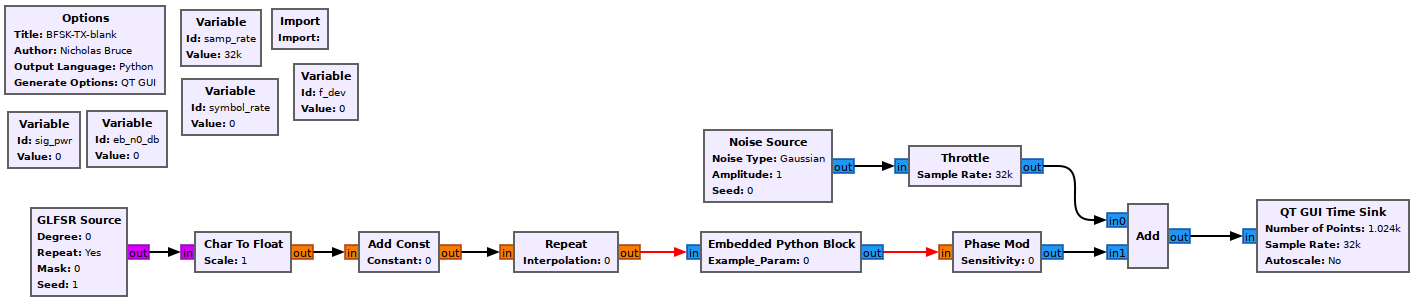
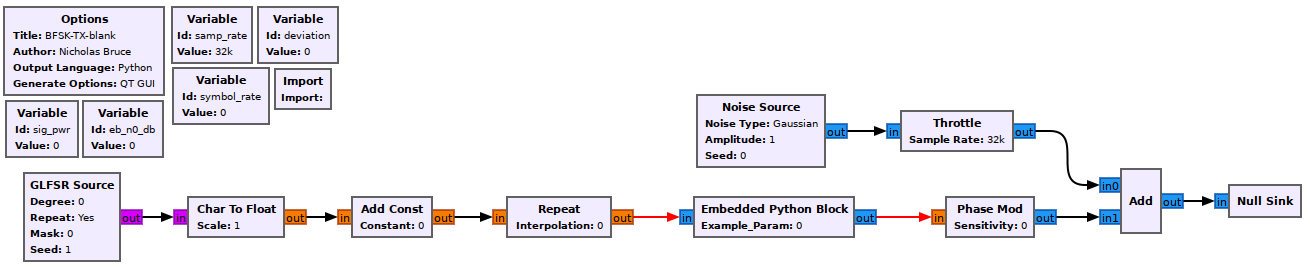
Working through fsk mod

diff --git a/_ece450/lab3/fsk-modulator.md b/_ece450/lab3/fsk-modulator.md
@@ -5,7 +5,7 @@ title: Part 2 - FSK Modulator
 permalink: /ece450/lab3/fsk-modulator
 course: ece450
 prev: /ece450/lab3/theory
-next: /ece450/lab3/non-coherent-fsk
+next: /ece450/lab3/noncoherent-fsk
 ---
 
 ## Objectives
@@ -128,92 +128,25 @@ Save your changes and exit back to the flowgraph.
 
 ### Phase Mod
 
-It is helpful to see the [Phase Mod documentation](https://wiki.gnuradio.org/index.php/Phase_Mod). This block has one parameter, *Sensitivity* and the output is 
+It is helpful to see the [Phase Mod documentation](https://wiki.gnuradio.org/index.php/Phase_Mod). This block has one parameter, *Sensitivity* and the output is $$e^{j*sensitivity*input}$$. Recall from the theory section that
+
+$$
+\tilde{s}(t) = e^{\frac{j2\pi f_{dev}}{f_s} \int^t_0 m(\alpha)d\alpha}.
+$$
+
+Set the *Sensitivity* of the block to `2*math.pi*deviation/samp_rate` so that the output of the block is $$\tilde{s}(t)$$.
 
 ### Noise Source
 
-For now set the *Amplitude* to 0.
-
-### Virtual Sink & Virtual source
-
-These blocks can be considered as connected by an "invisible" line on the flowgraph. They can be used for more complex tasks, but here they just keep the flowgraph from being criss-crossed with lines. They are also used to simulate a "transmitter" and "receiver". In this case the *Virtual Sink* transmits the noisy baseband waveform while the *Virtual Source* receives it.
-
-Ensure that the *Stream ID* matches between the two.
-
-### Decimating FIR Filter
-
-Set the decimation parameter appropriately (think back to the interpolation done in the LPF), remembering to reference the symbol and sample rate variables. The block fails to compile without a taps argument so set *Taps* to 1 (meaning there is 1 tap with a value of 1).
-
-{% include alert.html title="Note" content="Some systems seem to throw a weird error unless the 1 is enclosed in square brackets. If you get this error try setting the taps to `[1]`."%}
-
-### Binary Slicer
-
-This block outputs a 0 for every negative input and a 1 for every positive output.
-
-### Pack K Bits
-
-Set *K* to 8. This is the packet byte size that the later *BER* block requires.
-
-### BER
-
-This computes the error between the two inputs. It outputs to log of the BER, so if it outputs a value of -2, the BER is $$10^{-2}=0.01$$.
-
-Set *Test Mode* to False, which will mean the block immediately starts outputting results (as opposed to waiting for the error rate to stabilize first). While *Test Mode* is False, the other parameters don't do anything, so you can leave them as they are.
-
-### QT GUI Number Sink
-
-This will draw the output of the BER block on a number line. Set the maximum to 0 (since $$10^0=1$$ meaning that every bit is wrong) and the minumum to -7.
-
-### Skip Head
-
-To compute the BER of the system, the input and output bitstreams must be aligned. The filter causes a delay which can be measured by correlating the bitstreams, or observing them using a *QT GUI Time Sink* as shown in the two figures below.
-
-To do this you can observe the overlapped bitstreams and try to find the offset between them. When the bitstreams are not aligned, the BER rate will be about 50% (this just means both streams are random and equally consist of 1s and 0s).
-
-  ![un-delayed-bitstreams.png](figures/un-delayed-bitstreams.png)<br>
-  __*A pattern found in the un-delayed bitstream. The blue bitstream between the blue arrows matches the red bitstream between the red arrows. BER=50%.*__
-
-You will know you have the correct delay when your error rate drops to 0.
-
-  ![delayed-bitstreams.png](figures/delayed-bitstreams.png)<br>
-  __*Delay corrected bitstreams. BER=0%.*__
-
-It is a finicky task to find the correct delay and not the intent of the lab. So, assuming you have correctly set your LPF parameters the *Skip Head* block should have the *Num Items* argument set to 6. This means the first six block inputs are discarded before the input is sent directly to the output.
-
-### Setting LPF Gain
-
-Test the system by running it. Observe the time sink connected to the end of the transmitter chain (below). Notice that the waveform amplitude is very low at the output of the filter. Find the amplitude of the pulse peaks and then change the "Gain" parameter in the *Low Pass Filter* block such that the waveform pulses peak at 1.
-
-  ![lpf-no-gain.png](figures/lpf-no-gain.png)<br>
-  __*Output of LPF before gain is applied.*__
-
-  ![lpf-with-gain.png](figures/lpf-with-gain.png)<br>
-  __*Output of LPF with the appropriate gain applied.*__
+For now leave it with default parameters.
 
 ## Run the experiment
 
-1. Run the flowgraph.
-2. Record the BER at $$\sigma$$ values of `[0.7, 0.55, 0.44, 0.35, 0.28]`. You will need to kill the flowgraph each time you need to set a new value.
-   - Plotting the time sink values also eats computational power. While waiting for the BER values to stabilize you may disable the *QT GUI Time Sink* blocks and any other unneeded QT GUI blocks.
-3. Offset the delay (in the *Skip Head* block) by a single sample. Check the BER with no added noise.
-4. Measure output powers as described below.
-   - As shown in the [theory section]({{ site.baseurl }}{% link _ece450/lab2/theory.md %}), $$SNR_{MAX} = \frac{2E_b}{N_0}$$.
-   - The $$SNR_{MAX}$$ is the ratio of the output signal and noise powers. To calculate the $$\frac{E_b}{N_0}$$ value for each above recorded BER value we need to find the output signal power and output noise power.
-   - Build the following three blocks to measure the signal power and attach the output of the *Decimating Filter* to both inputs of the multiply block.
-
-     ![power-measurement.png](figures/power-measurement.png)<br>
-    __*Flow diagram to measure average power of a data stream.*__
-
-   - The *Length* of the *Moving Average* block is 100000 and the *Scale* is the inverse (ensure that the inverse is a float and not an integer.)
-
-   {% include alert.html title="Note" content="Ensure that the *Scale* parameter is a float and not an integer. GR versions < 3.8 are build on Python 2 and so 1/100000 will result in the int 0. GR versions 3.8+ are built on Python 3 and so the same argument will yield the float 0.00001. In GR versions < 3.8 this can be solved by casting the entire argument as a float by wrapping it with a `float()`." %}
-
-   - Disable the *Binary Slicer*, *Skip Head*, both *Pack K Bits* blocks, the *BER* and it's number sink block.
-   - Set the *Amplitude* of the *Noise Source* block to 0 so that the signal $$a_i$$ goes throught the LPF and decimation with no noise added before the power is measured.
-   - Measure this value and record it.
-   - Now measure the noise power by setting the gain of the LPF to 0. Measure and record the noise power at the output of the decimator for `sigma` values of `[0.7, 0.55, 0.44, 0.35, 0.28]`. It takes some time for these numbers to stabilize.
-
-At this point you should have recorded 5 BER values, 5 output noise power values and 1 output signal power value.
+1. Add a *QT GUI Time Sink* to the flowgraph. Set the *Type* to *Float* and the *Number of Inputs* to 4. You can use the *Config* tab to label the 4 inputs as `m_alpha`, `int_m_alpha`, `Re(s~(t))` and `Im(s~(t))`. Connect the respective inputs to the output of the *Repeat*, *CumSum*, and *Phase Mod* blocks (you'll need a *Complex To Float* block to connect the output of the *Phase Mod*).
+   - Don't forget to activate the the Control Panel
+2. Run the flowgraph. Stop it soon after starting so that the plot freezes. You should see a figure like the following
+     ![tx_output.png](figures/tx_output.png)<br>
+     __*$$m(\alpha), \int_0^t m(\alpha) d\alpha, \mathbb{Re}\left\{\tilde{s}(t)\right\}, \mathbb{Im}\left\{\tilde{s}(t)\right\} plotted together in GNU Radio. *__
 
 {% include alert.html title="Deliverable question 1" class="info" content="What do your observations suggest about the relative impact on a communications system between a timing offset and noise?"%}
 

diff --git a/_ece450/lab3/noncoherent-fsk-demodulator.md b/_ece450/lab3/noncoherent-fsk-demodulator.md
@@ -2,7 +2,7 @@
 layout: labitem
 title: Part 2 - Non-coherent FSK
 
-permalink: /ece450/lab3/non-coherent-fsk
+permalink: /ece450/lab3/noncoherent-fsk
 course: ece450
 prev: /ece450/lab3/theory
 next: /ece450/lab3/coherent-fsk

diff --git a/_ece450/lab3/theory.md b/_ece450/lab3/theory.md
@@ -5,7 +5,7 @@ title: Part 1 - Theory
 permalink: /ece450/lab3/theory
 course: ece450
 prev: /ece450/lab3
-next: /ece450/lab2/non-coherent-fsk
+next: /ece450/lab3/fsk-modulator
 ---
 
 
